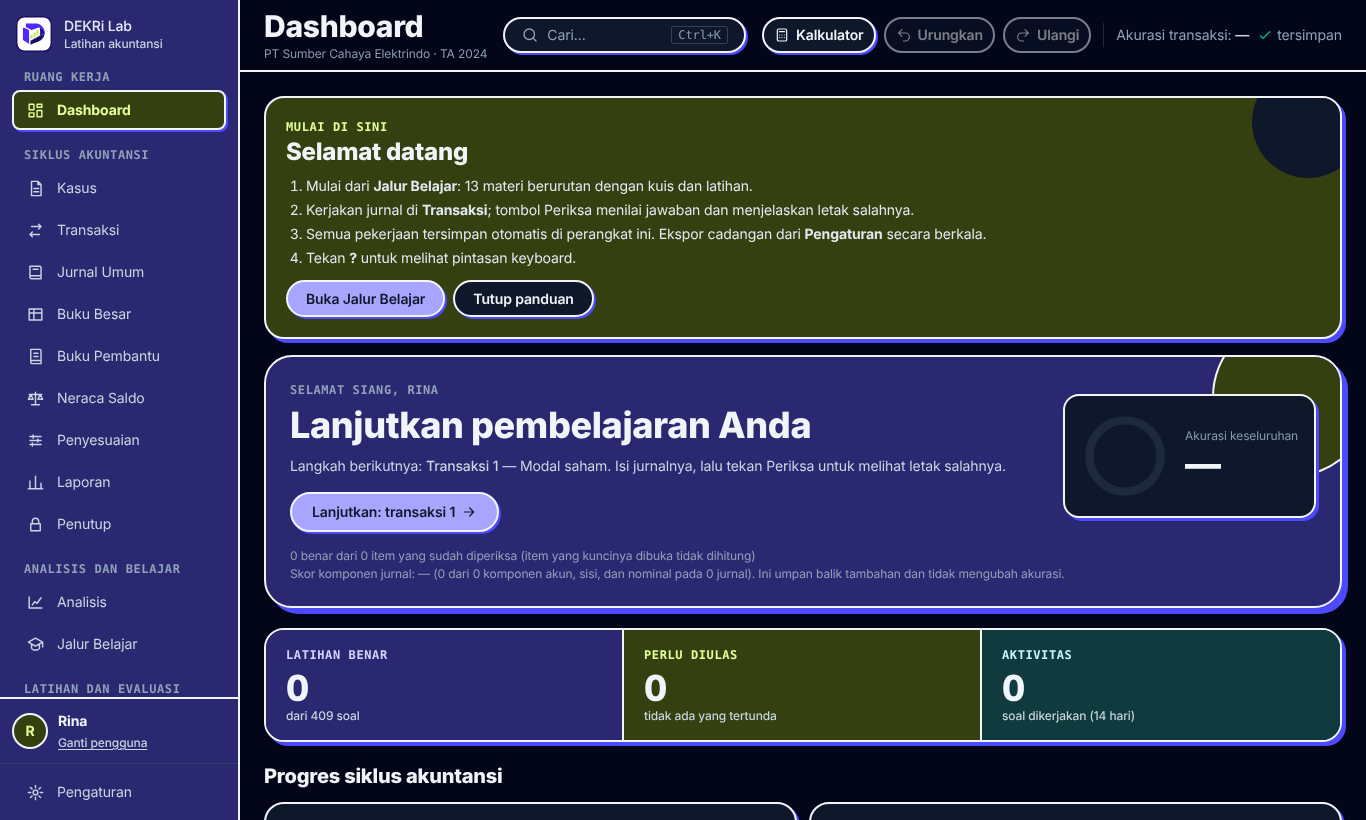
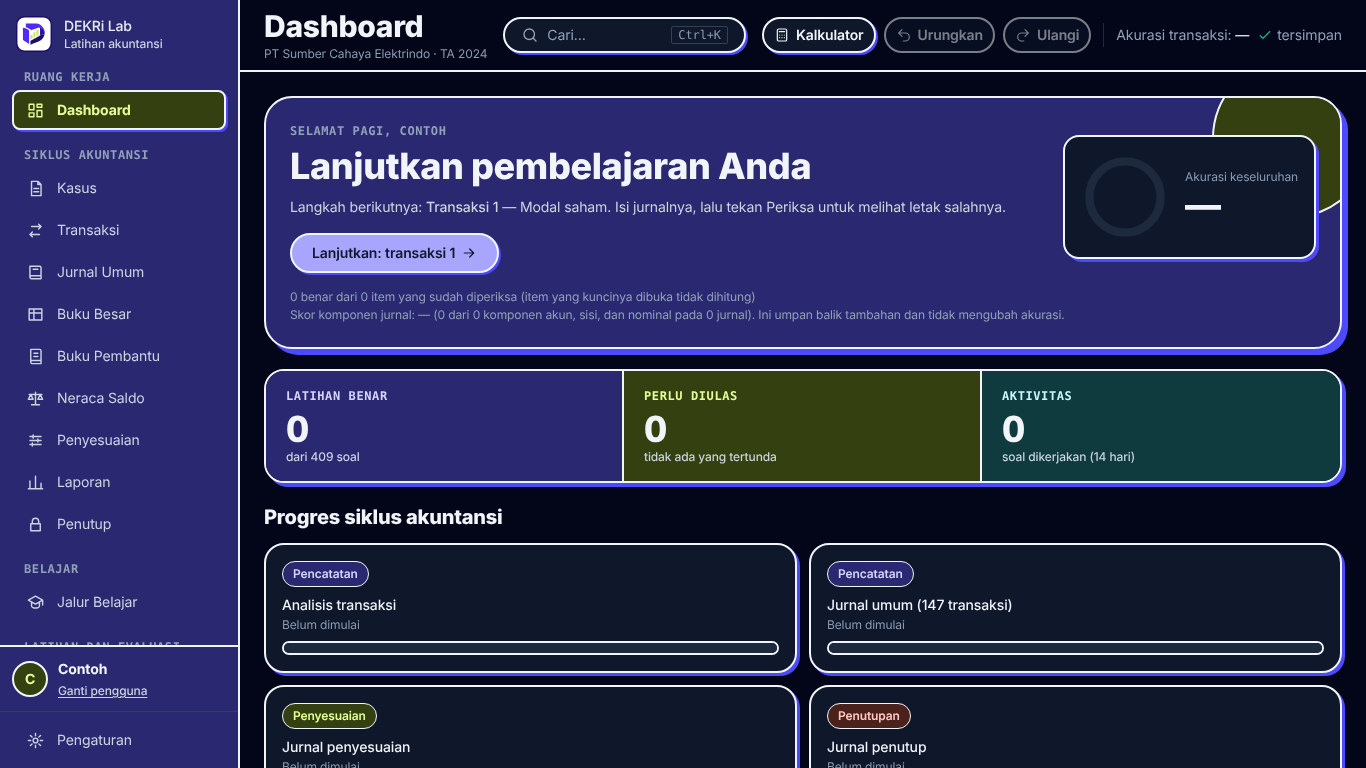
v1.0.1

diff --git a/src/engine/explain.ts b/src/engine/explain.ts
@@ -22,26 +22,16 @@ const TYPE_ID: Record<string, string> = {
 };
 const DEFAULT_NORMAL: Record<string, 'Debit' | 'Credit'> = { Asset: 'Debit', Expense: 'Debit', Liability: 'Credit', Equity: 'Credit', Revenue: 'Credit' };
 
-const rp = (n: number) => 'Rp' + n.toLocaleString('id-ID');
-const side = (s: 'Debit' | 'Credit') => (s === 'Debit' ? 'debit' : 'kredit');
-
-/** Satu baris penjelasan untuk satu akun di jurnal. */
+/** Satu baris pendek per akun: sisi, nama akun, jenis, dan arah perubahannya. */
 export function explainLine(l: ExplainLine, acc: Account | undefined): string {
   const name = l.name || acc?.name || l.code;
-  const amount = l.debit || l.credit;
   const used: 'Debit' | 'Credit' = l.debit ? 'Debit' : 'Credit';
-  const head = `${side(used).toUpperCase()} ${rp(amount)}: ${name}`;
-  if (!acc) return `${head}.`;
+  const sideName = used === 'Debit' ? 'Debit' : 'Kredit';
+  if (!acc) return `${sideName} — ${name}`;
   const type = TYPE_ID[acc.type] ?? acc.type.toLowerCase();
   const contra = DEFAULT_NORMAL[acc.type] !== undefined && DEFAULT_NORMAL[acc.type] !== acc.normal;
   const grows = used === acc.normal;
-  const label = contra ? `akun pengurang ${type}` : type;
-  const other: 'Debit' | 'Credit' = acc.normal === 'Debit' ? 'Credit' : 'Debit';
-  return (
-    `${head} (${label}) ${grows ? 'bertambah' : 'berkurang'}. ` +
-    `Akun ini bersaldo normal ${side(acc.normal)}: bertambah di ${side(acc.normal)}, berkurang di ${side(other)}. ` +
-    `Karena ${grows ? 'bertambah' : 'berkurang'}, dicatat di sisi ${side(used)}.`
-  );
+  return `${sideName} — ${name}: ${contra ? `akun pengurang ${type}` : type} ${grows ? 'bertambah' : 'berkurang'}.`;
 }
 
 export function explainJournal(
@@ -51,45 +41,20 @@ export function explainJournal(
 ): ExplainStep[] {
   const used = lines.filter((l) => l.debit || l.credit);
   const steps: ExplainStep[] = [];
-  if (opts.topic) steps.push({ title: 'Jenis peristiwa', body: opts.topic });
-  if (opts.calc) steps.push({ title: 'Perhitungan angka', body: opts.calc });
-  if (opts.explain) steps.push({ title: 'Prinsip akuntansi yang dipakai', body: opts.explain });
   if (!used.length) {
     steps.push({
-      title: 'Mengapa tidak ada jurnal',
-      body: 'Jurnal hanya dibuat untuk peristiwa yang sudah mengubah aset, liabilitas, atau ekuitas dan nilainya dapat diukur. Peristiwa ini belum memenuhi syarat itu.',
-      items: opts.reason ? [opts.reason] : undefined,
-    });
-    steps.push({
-      title: 'Pegangan untuk mengingat',
-      items: [
-        'Janji, pesanan, atau rencana yang belum menimbulkan hak atau kewajiban belum dijurnal.',
-        'Tetap catat peristiwanya sebagai informasi, dan jurnal baru dibuat ketika kondisinya berubah.',
-      ],
+      title: 'Mengapa tidak dijurnal',
+      body: opts.reason ?? opts.explain ?? 'Peristiwa ini belum mengubah aset, liabilitas, atau ekuitas, jadi belum dijurnal.',
     });
     return steps;
   }
-  if (used.length) {
-    steps.push({
-      title: 'Akun yang terpengaruh dan sisinya',
-      body: 'Untuk setiap akun, tanyakan dua hal: akun ini bertambah atau berkurang, lalu di sisi mana akun jenis itu bertambah.',
-      items: used.map((l) => explainLine(l, lookup(l.code))),
-    });
-    const d = used.reduce((s, l) => s + l.debit, 0);
-    const c = used.reduce((s, l) => s + l.credit, 0);
-    steps.push({
-      title: 'Periksa keseimbangan',
-      body:
-        d === c ? `Total debit ${rp(d)} sama dengan total kredit ${rp(c)}. Jurnal yang benar selalu seimbang.` : `Total debit ${rp(d)}, total kredit ${rp(c)}.`,
-    });
-  }
+  const intro = opts.topic && opts.explain ? `${opts.topic}: ${opts.explain}` : (opts.explain ?? opts.topic);
+  if (intro) steps.push({ title: 'Intinya', body: intro });
+  if (opts.calc) steps.push({ title: 'Perhitungan', body: opts.calc });
+  steps.push({ title: 'Mengapa dicatat begini', items: used.map((l) => explainLine(l, lookup(l.code))) });
   steps.push({
-    title: 'Pegangan untuk mengingat',
-    items: [
-      'Aset dan beban: bertambah di debit, berkurang di kredit.',
-      'Liabilitas, ekuitas, dan pendapatan: bertambah di kredit, berkurang di debit.',
-      'Akun pengurang (misalnya akumulasi penyusutan) bersisi kebalikan dari akun induknya.',
-    ],
+    title: 'Ingat',
+    body: 'Aset dan beban bertambah di debit. Liabilitas, ekuitas, dan pendapatan bertambah di kredit. Berkurang berarti sisi sebaliknya.',
   });
   return steps;
 }

diff --git a/tests/engine/explain.test.ts b/tests/engine/explain.test.ts
@@ -4,37 +4,32 @@ import { explainJournal, explainLine } from '../../src/engine/explain';
 
 const lookup = (c: string) => ACCOUNT_BY_CODE[c];
 
-describe('penjelasan kunci langkah demi langkah', () => {
-  it('aset bertambah di debit, modal bertambah di kredit', () => {
+describe('penjelasan kunci', () => {
+  it('aset bertambah di debit, modal bertambah di kredit; tanpa langkah keseimbangan', () => {
     const t = KEY.readableTxn.find((x) => x.no === 1)!;
     const steps = explainJournal(t.lines, lookup, { topic: t.topic, explain: t.explain });
-    const items = steps.find((s) => s.title.startsWith('Akun'))!.items!;
-    expect(items[0]).toMatch(/^DEBIT Rp400\.000\.000: Bank Arunika \(aset\) bertambah.*dicatat di sisi debit/);
-    expect(items[1]).toMatch(/^KREDIT Rp400\.000\.000: Modal Saham \(ekuitas\) bertambah.*dicatat di sisi kredit/);
-    expect(steps.some((s) => s.title === 'Periksa keseimbangan' && /sama dengan/.test(s.body ?? ''))).toBe(true);
+    expect(steps.map((s) => s.title)).toEqual(['Intinya', 'Mengapa dicatat begini', 'Ingat']);
+    const items = steps[1].items!;
+    expect(items[0]).toBe('Debit — Bank Arunika: aset bertambah.');
+    expect(items[1]).toBe('Kredit — Modal Saham: ekuitas bertambah.');
+    expect(JSON.stringify(steps)).not.toMatch(/keseimbangan/i);
   });
 
-  it('akun pengurang (kontra) dijelaskan sebagai akun pengurang', () => {
+  it('akun pengurang dan arah berkurang dijelaskan', () => {
     const contra = Object.values(ACCOUNT_BY_CODE).find((a) => a.type === 'Asset' && a.normal === 'Credit')!;
-    const txt = explainLine({ code: contra.code, debit: 0, credit: 1000 }, contra);
-    expect(txt).toMatch(/akun pengurang/);
-    expect(txt).toMatch(/^KREDIT Rp1\.000: .*bertambah\..*dicatat di sisi kredit/);
+    expect(explainLine({ code: contra.code, debit: 0, credit: 1000 }, contra)).toMatch(/^Kredit — .*: akun pengurang aset bertambah\.$/);
+    const kas = ACCOUNT_BY_CODE['1-1100'];
+    expect(explainLine({ code: kas.code, debit: 0, credit: 5 }, kas)).toMatch(/aset berkurang\.$/);
   });
 
-  it('semua soal inti menghasilkan penjelasan lengkap tanpa NaN/undefined', () => {
+  it('semua soal inti menghasilkan penjelasan tanpa NaN/undefined; tanpa jurnal diberi alasan', () => {
     const all = [...KEY.readableTxn.map((t) => ({ ...t, calc: null as string | null })), ...KEY.readableAdj.map((a) => ({ ...a, topic: a.category }))];
     for (const t of all) {
       const steps = explainJournal(t.lines, lookup, { topic: 'topic' in t ? (t.topic as string) : null, explain: t.explain, calc: t.calc });
-      const text = JSON.stringify(steps);
-      expect(text).not.toMatch(/NaN|undefined|null/);
+      expect(JSON.stringify(steps)).not.toMatch(/NaN|undefined|null/);
       const n = t.lines.filter((l) => l.debit || l.credit).length;
-      if (!n) {
-        expect(steps.some((s) => s.title === 'Mengapa tidak ada jurnal')).toBe(true);
-        continue;
-      }
-      const items = steps.find((s) => s.title.startsWith('Akun'))!.items!;
-      expect(items).toHaveLength(n);
-      expect(steps.find((s) => s.title === 'Periksa keseimbangan')!.body).toMatch(/sama dengan/);
+      if (!n) expect(steps[0].title).toBe('Mengapa tidak dijurnal');
+      else expect(steps.find((s) => s.title === 'Mengapa dicatat begini')!.items).toHaveLength(n);
     }
   });
 });

diff --git a/src/ui/pages/Kasus.tsx b/src/ui/pages/Kasus.tsx
@@ -2,15 +2,49 @@ import { useState } from 'react';
 import { CASE, COA, OPENING, ACCOUNT_BY_CODE } from '../../data';
 import { formatRupiah } from '../../engine/money';
 
-type Rows = string[][];
+type Cell = string | number | null;
+type Rows = Cell[][];
+
+/** Angka mentah pada tabel aging ditampilkan rapi: pecahan sebagai persen, lainnya dengan titik ribuan. */
+const fmtNum = (c: string): string => {
+  if (!/^\d+(\.\d+)?$/.test(c)) return c;
+  const n = Number(c);
+  if (n > 0 && n < 1) return `${Number((n * 100).toFixed(2)).toLocaleString('id-ID')}%`;
+  return n.toLocaleString('id-ID');
+};
+const base = (c: Cell): string => (c === null || c === undefined ? '' : String(c));
+
+const isBullet = (r: string[]) => r[0] === '•';
+const strs = (r: Cell[]): string[] => r.map(base);
 
 function RowsTable({ rows, header }: { rows: Rows; header?: boolean }) {
   const maxCols = Math.max(2, ...rows.map((r) => r.length));
+  let aging = false;
   return (
     <table>
       <tbody>
         {rows.map((r, i) => {
-          const cells = r.map((c) => c ?? '');
+          let cells = strs(r);
+          if (/^TABEL AGING/i.test(cells[0])) aging = true;
+          else if (aging && cells[0] !== '' && cells.slice(1).every((c) => c === '') && cells[0].length > 60) aging = false;
+          if (aging) cells = cells.map((c, j) => (j > 0 ? fmtNum(c) : c));
+          // Baris berpoin: dikelompokkan menjadi satu daftar penuh lebar (poin pertama menggambar seluruh kelompok).
+          if (isBullet(cells)) {
+            if (i > 0 && isBullet(strs(rows[i - 1]))) return null;
+            const group: string[] = [];
+            for (let k = i; k < rows.length && isBullet(strs(rows[k])); k++) group.push(strs(rows[k]).find((c, j) => j > 0 && c) ?? '');
+            return (
+              <tr key={i}>
+                <td colSpan={maxCols}>
+                  <ul className="list-disc space-y-1.5 pl-5">
+                    {group.map((t, k) => (
+                      <li key={k}>{t}</li>
+                    ))}
+                  </ul>
+                </td>
+              </tr>
+            );
+          }
           const nonEmpty = cells.filter((c) => c !== '');
           const isHead = (header && i === 0) || (nonEmpty.length === 1 && cells[0] !== '' && cells[0] === cells[0].toUpperCase() && cells[0].length > 3);
           if (isHead)
@@ -19,7 +53,8 @@ function RowsTable({ rows, header }: { rows: Rows; header?: boolean }) {
                 <th colSpan={maxCols}>{nonEmpty[0] ?? ''}</th>
               </tr>
             );
-          const kept = cells.map((c, j) => [c, j] as const).filter(([c, j]) => !(c === '' && j > 0));
+          const last = cells.reduce((m, c, j) => (c !== '' ? j : m), 0);
+          const kept = cells.map((c, j) => [c, j] as const).filter(([c, j]) => (aging ? j <= last : !(c === '' && j > 0)));
           return (
             <tr key={i}>
               {kept.map(([c, j], k) => (

diff --git a/tests/ui/desktop-ux.test.tsx b/tests/ui/desktop-ux.test.tsx
@@ -127,3 +127,17 @@ describe('laporan kesalahan soal', () => {
     expect(await within(box).findByText('Tautan disalin.')).toBeTruthy();
   });
 });
+
+describe('halaman Kasus: tampilan rapi', () => {
+  it('Petunjuk penggunaan berupa daftar poin dan tabel aging berformat', async () => {
+    await open('#/kasus');
+    expect(await screen.findByText('PETUNJUK PENGGUNAAN')).toBeTruthy();
+    const items = Array.from(document.querySelectorAll('td ul li')).map((l) => l.textContent ?? '');
+    expect(items).toHaveLength(4);
+    expect(items[0]).toMatch(/^Kerjakan berurutan/);
+    expect(screen.queryByText('•')).toBeNull();
+    expect(screen.getAllByText('240.000.000').length).toBeGreaterThan(0);
+    expect(screen.getAllByText('30%').length).toBeGreaterThan(0);
+    expect(screen.queryByText('240000000')).toBeNull();
+  });
+});

diff --git a/README.md b/README.md
@@ -14,25 +14,33 @@ DEKRi Lab adalah aplikasi untuk berlatih akuntansi dari awal sampai akhir: menca
 
 ## Cara memakai (pilih salah satu)
 
-### Cara 1: Pasang di Windows
+### Cara 1 (paling mudah): tanpa memasang apa pun
 
-1. Buka halaman **Releases** repositori ini (menu di sisi kanan halaman GitHub).
-2. Unduh berkas yang namanya diawali `DEKRi-Lab-Setup`, berakhiran `.exe`.
-3. Klik dua kali berkas itu, lalu klik **Next** sampai selesai.
-4. Buka **DEKRi Lab** dari ikon di Desktop atau menu Start.
+1. Buka halaman **Releases** di repositori ini (di sisi kanan halaman GitHub), lalu unduh berkas `DEKRi-Lab.html`.
+2. Klik dua kali berkas itu. Ia terbuka di Chrome atau Edge, dan Anda bisa langsung berlatih.
 
-Saat pertama kali, Windows bisa menampilkan peringatan biru "Windows protected your PC". Penyebabnya, installer ini belum memiliki tanda tangan digital berbayar. Unduh hanya dari halaman Releases repositori ini. Jika yakin, klik **More info**, lalu **Run anyway**.
+Simpan berkas ini di satu tempat tetap dan jangan dipindahkan, karena progres tersimpan berdasarkan lokasi berkas. Kalau perlu pindah, buka **Pengaturan > Cadangan** dan ekspor dulu.
 
-### Cara 2: Tanpa memasang apa pun
+### Cara 2: Pasang di Windows
 
-1. Di halaman **Releases**, unduh berkas `DEKRi-Lab.html`.
-2. Klik dua kali. Berkas akan terbuka di Chrome atau Edge.
+Pilih cara ini kalau Anda ingin cadangan otomatis dan tombol Simpan PDF.
 
-Catatan: simpan berkas ini di satu tempat tetap dan jangan dipindahkan, karena progres tersimpan berdasarkan lokasi berkas. Kalau perlu pindah, buka **Pengaturan > Cadangan** dan ekspor dulu.
+1. Di halaman **Releases**, unduh berkas yang namanya diawali `DEKRi-Lab-Setup` dan berakhiran `.exe`.
+2. Klik dua kali, lalu ikuti petunjuk di layar. Anda bisa memilih folder tujuan pemasangan, lalu klik **Next** dan **Install** sampai selesai.
+3. Buka **DEKRi Lab** dari ikon di Desktop atau menu Start.
+
+**Kalau muncul peringatan biru "Windows protected your PC":** itu normal, karena pemasang ini belum memiliki tanda tangan digital berbayar. Unduh hanya dari halaman Releases repositori ini. Lalu:
+
+1. Klik **More info**.
+2. Klik **Run anyway**.
+
+**Kalau pemasangan gagal:** pakai Cara 1. Hasilnya sama untuk berlatih.
 
 ## Tampilan
 
 ![Tema gelap](docs/images/aplikasi-gelap.png)
+
+![Penjelasan kunci jawaban](docs/images/penjelasan-kunci.png)
 
 ## Progres dan cadangan
 

diff --git a/docs/GITHUB_SETUP.md b/docs/GITHUB_SETUP.md
@@ -25,3 +25,24 @@ Langkah ini dilakukan **oleh pemilik di GitHub**; berkas di repositori tidak bis
 ## Setelah publik
 
 Periksa tab Security dan Actions, lalu uji alur rilis dengan tag percobaan di repositori privat/uji sebelum tag nyata pertama.
+
+## Tampilan repositori (kotak About)
+
+Isi lewat ikon roda gigi di samping "About" pada halaman utama repositori:
+
+- **Description:** `Aplikasi latihan akuntansi offline: dari jurnal sampai laporan keuangan, dengan kasus fiktif. Jawaban diperiksa otomatis.`
+- **Topics:** `akuntansi`, `pembelajaran`, `latihan`, `laporan-keuangan`, `indonesia`, `offline`, `psak`, `react`, `typescript`, `electron`
+- Hapus centang **Releases**, **Packages**, dan **Deployments** di sidebar jika tidak dipakai (opsional). Biarkan **Releases** tercentang agar halaman unduhan terlihat.
+
+## Proteksi cabang `main` (langkah singkat)
+
+Settings > Rules > Rulesets > New ruleset > New branch ruleset:
+
+1. Beri nama `main`, status **Active**, target **Default branch**.
+2. Centang **Restrict deletions** dan **Block force pushes**.
+3. Sebagai pemilik tunggal, jangan dulu mewajibkan pull request atau reviu, karena Anda tidak bisa menyetujui PR sendiri. Aktifkan **Require status checks to pass** dan pilih pemeriksaan CI hanya bila Anda bekerja lewat PR.
+4. Simpan dengan **Create**.
+
+## Rilis pertama
+
+Alur rilis membuat **draf** yang sekaligus bertanda **Pre-release**. Setelah memeriksa unggahan, klik **Publish release**. Untuk rilis stabil nanti, edit rilis lalu centang **Set as the latest release** dan lepaskan centang pre-release. Teks pembuka rilis ada di `.github/release-notes-header.md`.

diff --git a/CHANGELOG.md b/CHANGELOG.md
@@ -2,6 +2,21 @@
 
 ## 1.0.1
 
+### Halaman Kasus lebih rapi
+
+- "Petunjuk penggunaan" di Kasus > Profil kini berupa daftar poin satu kolom penuh (sebelumnya titik poin berada di kolom lebar tersendiri). Angka pada tabel aging piutang ditampilkan dengan titik ribuan dan persen (sebelumnya angka mentah seperti 240000000 dan 0.3).
+
+### Kemudahan pemasangan dan rilis
+
+- README mengutamakan `DEKRi-Lab.html` (tanpa pemasangan) sebagai cara pertama, dengan panduan peringatan "Windows protected your PC" dan saran bila pemasangan gagal. Tangkapan layar diperbarui dan ditambah satu untuk penjelasan kunci.
+- Rilis GitHub dibuat sebagai draf bertanda pre-release dengan teks pembuka "Unduh yang mana?" (`.github/release-notes-header.md`).
+- Dependabot tidak lagi mengusulkan kenaikan versi besar React (`react`, `react-dom`, dan tipenya); ditangani manual.
+- `package.json` diberi deskripsi dan kata kunci. `docs/GITHUB_SETUP.md` memuat teks About, topics, dan langkah proteksi cabang.
+
+### Penjelasan kunci dibuat lebih ringkas
+
+- Penjelasan kunci kini hanya tiga bagian pendek: Intinya, Mengapa dicatat begini (satu baris per akun: sisi debit/kredit dan arah perubahan), dan Ingat. Langkah "Periksa keseimbangan" dihapus. Peristiwa tanpa jurnal hanya menampilkan alasannya.
+
 ### Laporan kesalahan soal
 
 - Pengaturan > Tentang kini memuat kotak "Menemukan soal atau kunci yang keliru?" dengan tautan templat issue GitHub dan tombol Salin tautan (aplikasi offline, jadi tautan disalin, bukan dibuka di dalam aplikasi). Kotak kunci jawaban menunjuk ke sana. README dan DISCLAIMER menyebutkan cara melapor.

diff --git a/.github/release-notes-header.md b/.github/release-notes-header.md
@@ -1,0 +1,9 @@
+## Unduh yang mana?
+
+- **`DEKRi-Lab.html`**: cara termudah. Unduh, lalu klik dua kali. Terbuka di Chrome atau Edge, tanpa pemasangan dan tanpa internet.
+- **`DEKRi-Lab-Setup-*.exe`**: pemasang untuk Windows. Klik dua kali, pilih folder tujuan, lalu ikuti petunjuk sampai selesai. Windows mungkin menampilkan peringatan biru karena pemasang belum bertanda tangan digital: klik **More info**, lalu **Run anyway**.
+- `SHA256SUMS.txt` dan `sbom.cdx.json`: untuk memeriksa keutuhan berkas dan daftar komponen (tidak perlu diunduh untuk memakai aplikasi).
+
+Ini versi awal (pre-release). Kalau menemukan soal atau kunci yang keliru, laporkan lewat tab Issues.
+
+---
